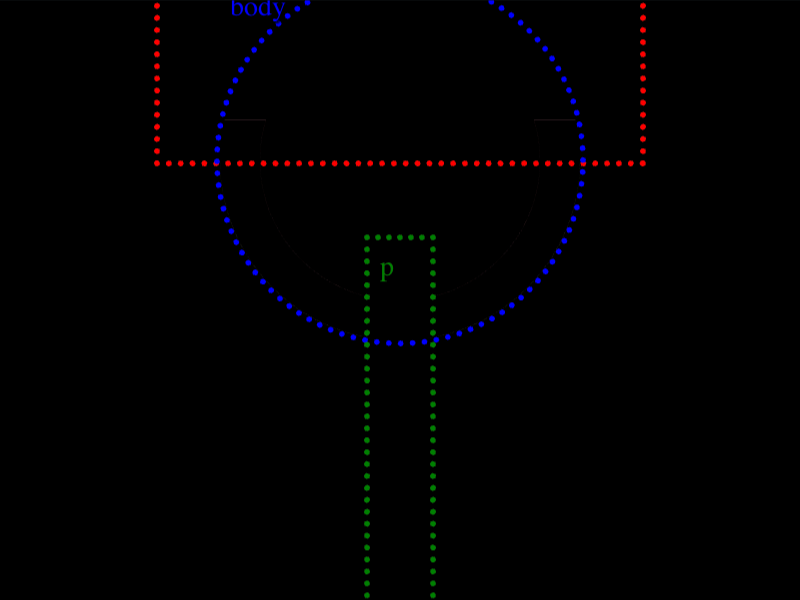
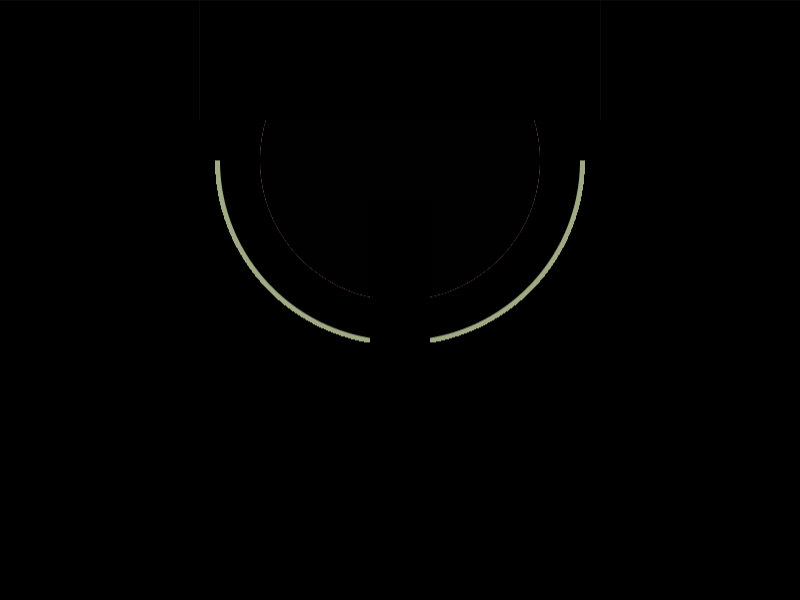
Score: 635.54, Characters: 254 (100.00% match) - CSSHub

diff --git a/Daily Targets/2026-07-28/README.md b/Daily Targets/2026-07-28/README.md
@@ -22,7 +22,7 @@ Challenge: <https://cssbattle.dev/play/LtfUvFd3HF61ZOGlL9Q9>
 ## Code
 
 ```html
-<p><style>&{box-shadow:0 0 0 9in#4c4c6b}&,&>*{border:5vw solid#ebf6f0}*{background:#4a9a86;margin:-20 80;height:60;body{--s:;margin:-10 10;height:140;border-radius:9in;clip-path:polygon(0 74Q,100%74Q,100%100%,110px 100%,110px 25pc,74Q 25pc,74Q 100%,0 100%);*{height:200;margin:110 55
+<p><style>&{margin:-20 80 220;background:#4C4C6B;border:5vw solid#EBF6F0;*{margin:-20-50-120;background:radial-gradient(1q,#4A9A86 74q,#EBF6F0 0 5lh,#0000);p{background:#4A9A86;position:fixed;margin:120 135 0;padding:100 15;box-shadow:0-344q 0 90q#4A9A86
 ```
 
 ## Prettified code
@@ -31,34 +31,18 @@ Challenge: <https://cssbattle.dev/play/LtfUvFd3HF61ZOGlL9Q9>
 <p>
 <style>
 & {
-  box-shadow: 0 0 0 9in #4c4c6b;
-}
-&,
-& > * {
+  margin: -20 80 220;
+  background: #4c4c6b;
   border: 5vw solid #ebf6f0;
-}
-* {
-  background: #4a9a86;
-  margin: -20 80;
-  height: 60;
-  body {
-    --s:;
-    margin: -10 10;
-    height: 140;
-    border-radius: 9in;
-    clip-path: polygon(
-      0 74Q,
-      100% 74Q,
-      100% 100%,
-      110px 100%,
-      110px 25pc,
-      74Q 25pc,
-      74Q 100%,
-      0 100%
-    );
-    * {
-      height: 200;
-      margin: 110 55;
+  * {
+    margin: -20 -50 -120;
+    background: radial-gradient(1Q, #4a9a86 74Q, #ebf6f0 0 5lh, transparent);
+    p {
+      background: #4a9a86;
+      position: fixed;
+      margin: 120 135 0;
+      padding: 100 15;
+      box-shadow: 0 -344Q 0 90Q #4a9a86;
     }
   }
 }

diff --git a/README.md b/README.md
@@ -47,7 +47,7 @@ Note - I have not yet complete all the challenges.
 <ul>
 <li><a href="./Daily%20Targets/2026-07-26/">Jul 26, 2026</a> (101 Characters)</li>
 <li><a href="./Daily%20Targets/2026-07-27/">Jul 27, 2026</a> (203 Characters)</li>
-<li><a href="./Daily%20Targets/2026-07-28/">Jul 28, 2026</a> (283 Characters)</li>
+<li><a href="./Daily%20Targets/2026-07-28/">Jul 28, 2026</a> (254 Characters)</li>
 </ul>
 </details>
 </li>
